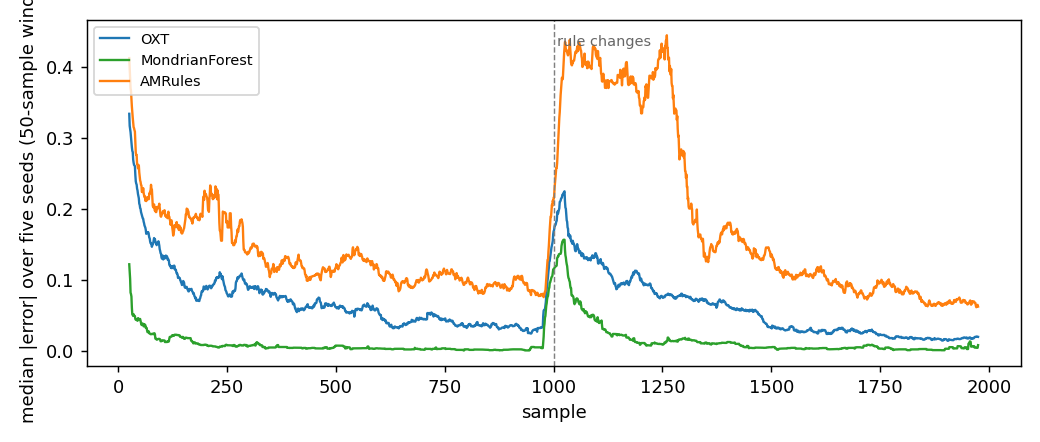
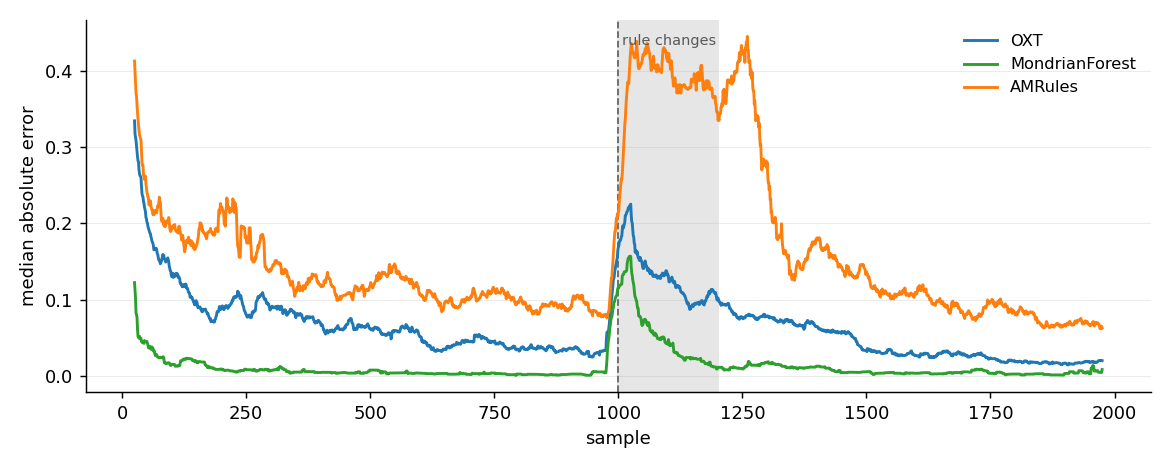
docs(forest): regenerate OXT figure, shorter y-label and cleaner grid

Changed region(s): [[0.0, 0.0294, 0.9846, 0.9706], [0.0, 0.8235, 0.0308, 0.9412], [0.0, 0.0, 0.0308, 0.0882]]

diff --git a/docs/assets/forest/make_figure_oxt.py b/docs/assets/forest/make_figure_oxt.py
@@ -16,18 +16,17 @@ out = Path(__file__).parent
 N, D = 2000, 4
 
 LEARNERS = {
-    "OXT": lambda s: OnlineExtraTreesRegressor(seed=s),
-    "MondrianForest": lambda s: MondrianForestRegressor(n_trees=10, seed=s),
-    "AMRules": lambda s: AMRulesRegressor(seed=s),
+    "OXT":              (lambda s: OnlineExtraTreesRegressor(seed=s),             "tab:blue"),
+    "MondrianForest":   (lambda s: MondrianForestRegressor(n_trees=10, seed=s),   "tab:green"),
+    "AMRules":          (lambda s: AMRulesRegressor(seed=s),                      "tab:orange"),
 }
-COLORS = {"OXT": "tab:blue", "MondrianForest": "tab:green", "AMRules": "tab:orange"}
 
 curves = {k: [] for k in LEARNERS}
 for seed in range(5):
     X, y = DriftStream(n_samples=N, n_features=D, n_drifts=1,
                        kind="sudden", seed=seed).data()
     names = [f"x{i}" for i in range(D)]
-    for name, make in LEARNERS.items():
+    for name, (make, _) in LEARNERS.items():
         est = make(seed)
         err = np.empty(N)
         for i, (xi, yi) in enumerate(zip(X, y)):
@@ -37,21 +36,38 @@ for seed in range(5):
         curves[name].append(err)
 
 win = 50
-fig, ax = plt.subplots(figsize=(8, 3.4))
+smooth_curves = {}
 for name, errs in curves.items():
     smooth = np.median(
         [np.convolve(e, np.ones(win) / win, mode="valid") for e in errs],
         axis=0,
     )
-    ax.plot(np.arange(len(smooth)) + win // 2, smooth,
-            color=COLORS[name], lw=1.3, label=name)
+    smooth_curves[name] = smooth
 
-ax.axvline(N // 2, color="0.5", lw=0.8, ls="--")
-ax.text(N // 2 + 8, ax.get_ylim()[1] * 0.92, "rule changes",
-        fontsize=8, color="0.4")
+fig, ax = plt.subplots(figsize=(9, 3.6))
+
+for name, (_, color) in LEARNERS.items():
+    s = smooth_curves[name]
+    x = np.arange(len(s)) + win // 2
+    ax.plot(x, s, color=color, lw=1.6, label=name)
+
+# zona intorno al cambio
+ax.axvspan(N // 2, N // 2 + 200, color="0.9", zorder=0)
+ax.axvline(N // 2, color="0.4", lw=1.0, ls="--", zorder=1)
+ax.text(N // 2 + 8, ax.get_ylim()[1] * 0.96, "rule changes",
+        fontsize=8, color="0.35", va="top")
+
+# etichette degli assi corte
 ax.set_xlabel("sample")
-ax.set_ylabel("median |error| over five seeds (50-sample window)")
-ax.legend(loc="upper left", fontsize=8)
+ax.set_ylabel("median absolute error")
+
+ax.grid(True, which="major", axis="y", alpha=0.25, lw=0.6)
+ax.set_axisbelow(True)
+ax.spines["top"].set_visible(False)
+ax.spines["right"].set_visible(False)
+
+ax.legend(loc="upper right", fontsize=9, frameon=False)
+
 fig.tight_layout()
 fig.savefig(out / "oxt_recovery.png", dpi=130)
 print("scritto:", out / "oxt_recovery.png")
